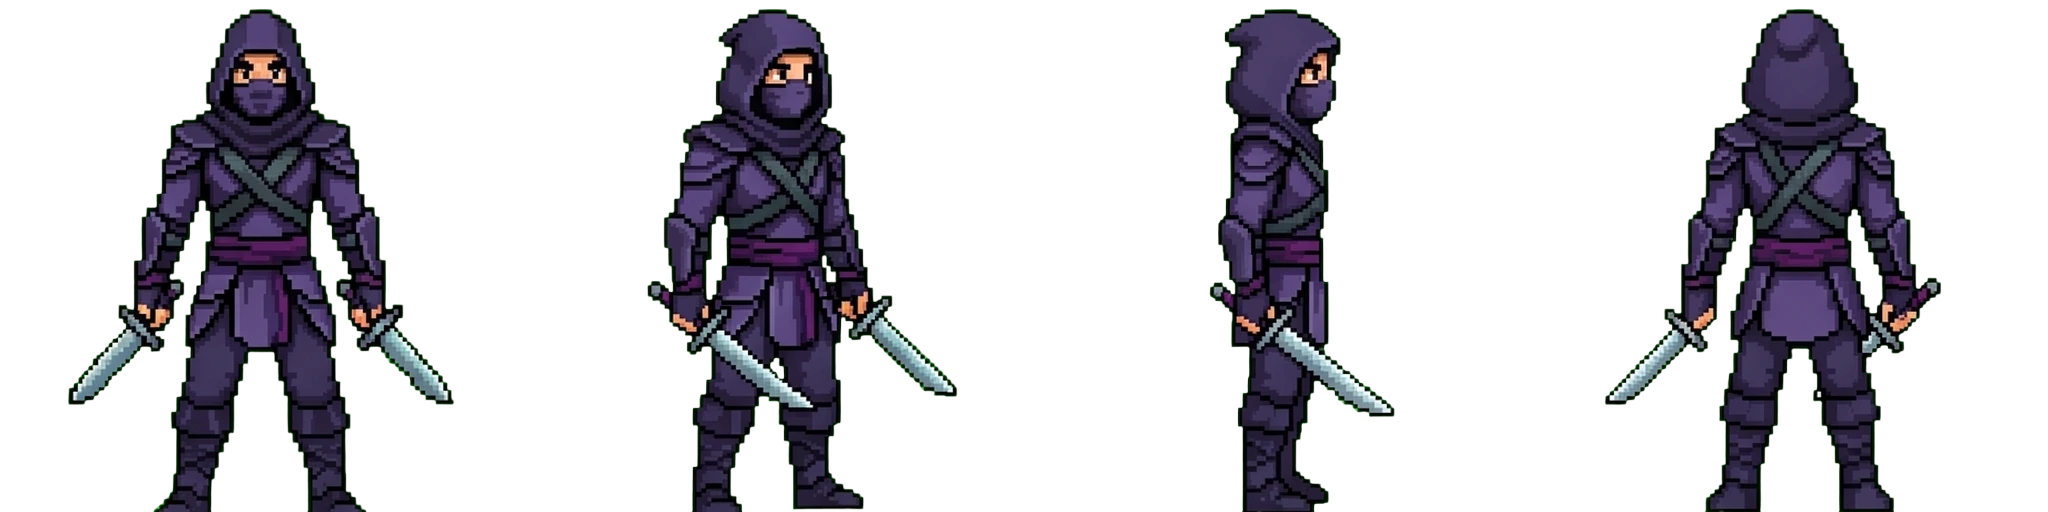
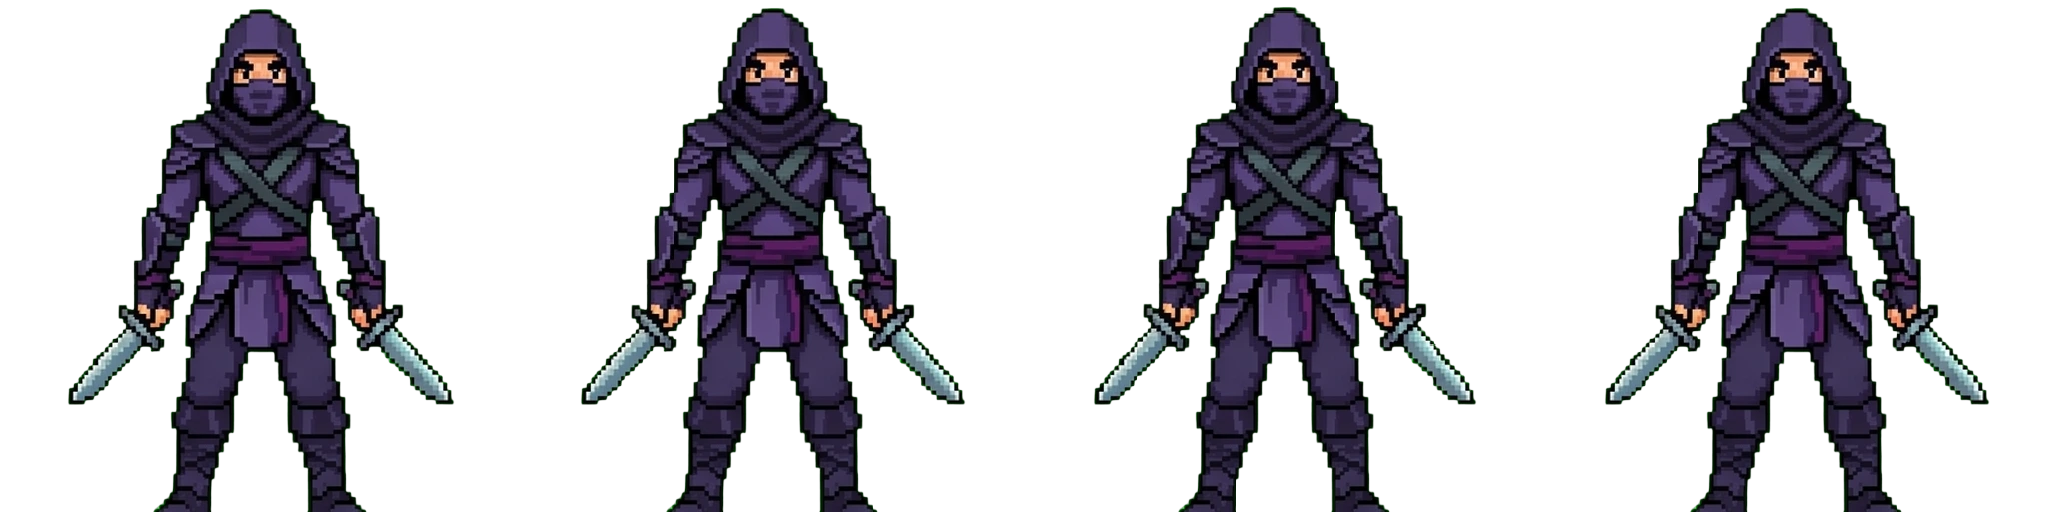
feat: provide dedicated green animation sprites for Mortis and fix Voidstalker idle rotation

Changed region(s): [[0.5312, 0.0, 0.7188, 1.0], [0.7812, 0.0, 0.9688, 1.0], [0.2812, 0.0, 0.4688, 1.0]]

diff --git a/src/core/sprites.ts b/src/core/sprites.ts
@@ -5,6 +5,7 @@ export interface GameSpriteRenderers {
   hero_barbarian: SpriteRenderer;
   hero_pyromancer: SpriteRenderer;
   hero_voidstalker: SpriteRenderer;
+  hero_mortis: SpriteRenderer;
   skeleton: SpriteRenderer;
   hound: SpriteRenderer;
   bat: SpriteRenderer;
@@ -57,6 +58,13 @@ export function initSpriteRenderers(): GameSpriteRenderers {
       ATTACK: makeConfig('hero_voidstalker_attack', 16, 16),
       HURT: makeConfig('hero_voidstalker_hurt', 16, 10, 512, 512, false),
       DEATH: makeConfig('hero_voidstalker_death', 16, 10, 512, 512, false),
+    }),
+    hero_mortis: new SpriteRenderer({
+      IDLE: makeConfig('hero_mortis_idle', 4, 6),
+      RUN: makeConfig('hero_mortis_run', 16, 16),
+      ATTACK: makeConfig('hero_mortis_attack', 16, 16),
+      HURT: makeConfig('hero_mortis_hurt', 16, 10, 512, 512, false),
+      DEATH: makeConfig('hero_mortis_death', 16, 10, 512, 512, false),
     }),
     skeleton: new SpriteRenderer({
       IDLE: makeConfig('enemy_skeleton_idle', 4, 6),

diff --git a/src/core/assets.ts b/src/core/assets.ts
@@ -47,6 +47,12 @@ export const ASSETS_MANIFEST: Record<string, string> = {
   hero_voidstalker_hurt: 'assets/images/hero_voidstalker_hurt.png',
   hero_voidstalker_death: 'assets/images/hero_voidstalker_death.png',
 
+  hero_mortis_idle: 'assets/images/hero_mortis_idle.png',
+  hero_mortis_run: 'assets/images/hero_mortis_run.png',
+  hero_mortis_attack: 'assets/images/hero_mortis_attack.png',
+  hero_mortis_hurt: 'assets/images/hero_mortis_hurt.png',
+  hero_mortis_death: 'assets/images/hero_mortis_death.png',
+
   enemy_skeleton_idle: 'assets/images/enemy_skeleton_idle.png',
   enemy_skeleton_run: 'assets/images/enemy_skeleton_run.png',
   enemy_skeleton_attack: 'assets/images/enemy_skeleton_attack.png',

diff --git a/src/types/items.ts b/src/types/items.ts
@@ -94,8 +94,8 @@ export const HEROES: HeroData[] = [
     armorBonus: 0,
     regenBonus: 1.0,
     color: '#22c55e',
-    idleSheet: 'assets/images/hero_voidstalker_idle.png',
-    spriteKey: 'hero_voidstalker',
+    idleSheet: 'assets/images/hero_mortis_idle.png',
+    spriteKey: 'hero_mortis',
   },
   {
     id: 'thorgar',
